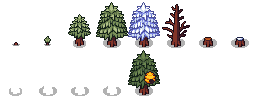
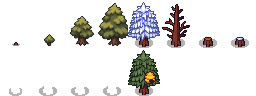
Redraw pines with Rogue Adventure foliage and bark

Changed region(s): [[0.25, 0.0312, 0.5, 0.5], [0.1562, 0.3438, 0.2188, 0.5]]

diff --git a/src/street_decoration_art.js b/src/street_decoration_art.js
@@ -1,2 +1,2 @@
 // Generated by tools/build_street_decoration_art.py; exact approved source crops.
-const STREET_DECORATION_ART = {"hanging_lantern":{"scoutId":"T1-15","source":"extra_assets/16x16/Rogue Adventure World/Rogue Adventure World [Sprites]/Tilesets/RA_Village_Animation03.png","crop":[0,0,32,32],"title":"Hanging lantern post","suggestedVariants":["hedgerow","lantern","promenade","trade"],"license":"extra_assets/16x16/Rogue Adventure World/License.txt","path":"assets/StreetDecorations/hanging_lantern.png","bounds":{"fw":32,"fh":32,"minX":5,"minY":2,"maxX":24,"maxY":30},"scale":1.57895,"ground":false},"white_flower":{"scoutId":"T3-06","source":"extra_assets/16x16/Fantasy Dreamland World/Fantasy Dreamland Reborn/Tilesets/FDR_Grasslands.png","crop":[64,16,16,16],"title":"Small white flower","suggestedVariants":["greenway","hedgerow","orchard","parkpath"],"license":"extra_assets/16x16/Fantasy Dreamland World/License.txt","path":"assets/StreetDecorations/white_flower.png","bounds":{"fw":16,"fh":16,"minX":6,"minY":6,"maxX":10,"maxY":11},"scale":2.5,"ground":false},"mossy_tree":{"scoutId":"T4-18","source":"extra_assets/16x16/Farm Game Abandoned Mines Tileset/Tilesets/FG_Extras.png","crop":[224,176,32,48],"title":"Mossy Small Tree","suggestedVariants":["hedgerow","old_growth_path","orchard"],"license":"extra_assets/16x16/Farm Game Abandoned Mines Tileset/License.txt","path":"assets/StreetDecorations/mossy_tree.png","bounds":{"fw":32,"fh":48,"minX":0,"minY":0,"maxX":32,"maxY":48},"scale":1.28125,"ground":false},"hedge_strip":{"scoutId":"T5-05","source":"extra_assets/Pixel Plains/Basic Tiles 4 (Trees & Bushes).png","crop":[272,256,64,16],"title":"Continuous hedge section","suggestedVariants":["hedgerow"],"license":"extra_assets/Pixel Plains/ReadMe.txt","path":"assets/StreetDecorations/hedge_strip.png","bounds":{"fw":64,"fh":16,"minX":0,"minY":0,"maxX":64,"maxY":16},"scale":0.75,"ground":false},"grass_clump":{"scoutId":"T1-10","source":"extra_assets/16x16/Rogue Adventure World/Rogue Adventure World [Sprites]/Tilesets/RA_Jungle.png","crop":[0,576,48,48],"title":"Rounded tall-grass clump","suggestedVariants":["grassy_lane","hedgerow","overgrown"],"license":"extra_assets/16x16/Rogue Adventure World/License.txt","path":"assets/StreetDecorations/grass_clump.png","bounds":{"fw":48,"fh":48,"minX":0,"minY":0,"maxX":48,"maxY":48},"scale":0.47917,"ground":false},"stump":{"scoutId":"T3-15","source":"extra_assets/16x16/Fantasy Dreamland World/Fantasy Dreamland Reborn/Tilesets/FDR_Halloween.png","crop":[64,128,48,32],"title":"Broad rooted stump","suggestedVariants":["old_growth_path","orchard","overgrown"],"license":"extra_assets/16x16/Fantasy Dreamland World/License.txt","path":"assets/StreetDecorations/stump.png","bounds":{"fw":48,"fh":32,"minX":8,"minY":4,"maxX":40,"maxY":29},"scale":0.84375,"ground":false},"young_fern":{"scoutId":"T4-04","source":"extra_assets/16x16/Farm Game Forest 4 Seasons Tileset/Tilesets/FG_Forest_Summer.png","crop":[160,0,16,16],"title":"Young Fern","suggestedVariants":["grassy_lane","old_growth_path","overgrown"],"license":null,"path":"assets/StreetDecorations/young_fern.png","bounds":{"fw":16,"fh":16,"minX":4,"minY":4,"maxX":13,"maxY":12},"scale":1.55556,"ground":false},"conifer_tree":{"scoutId":"T6-22","source":"extra_assets/Sunnyside_World_Assets/Elements/Plants/spr_deco_tree_02_strip4.png","crop":[0,0,28,43],"title":"Small conifer","suggestedVariants":["old_growth_path","overgrown"],"license":null,"path":"assets/StreetDecorations/conifer_tree.png","bounds":{"fw":28,"fh":43,"minX":5,"minY":5,"maxX":23,"maxY":40},"scale":1.66667,"ground":false},"mossy_rock":{"scoutId":"T5-22","source":"extra_assets/MiniWorldSprites/Nature/Rocks.png","crop":[0,16,16,16],"title":"Mossy rock","suggestedVariants":["old_growth_path","overgrown","rocky_path"],"license":null,"path":"assets/StreetDecorations/mossy_rock.png","bounds":{"fw":16,"fh":16,"minX":1,"minY":3,"maxX":15,"maxY":13},"scale":1.57143,"ground":false},"yellow_flowers":{"scoutId":"T1-02","source":"extra_assets/16x16/Rogue Adventure World/Rogue Adventure World [Sprites]/Tilesets/RA_Jungle.png","crop":[240,544,16,16],"title":"Yellow meadow flowers","suggestedVariants":["berry","berry_trail","orchard","parkpath"],"license":"extra_assets/16x16/Rogue Adventure World/License.txt","path":"assets/StreetDecorations/yellow_flowers.png","bounds":{"fw":16,"fh":16,"minX":1,"minY":1,"maxX":15,"maxY":16},"scale":1.57143,"ground":false},"muted_stones":{"scoutId":"T3-17","source":"extra_assets/16x16/Fantasy Dreamland World/Fantasy Dreamland/Tilesets/FD_Marshlands.png","crop":[256,80,32,32],"title":"Loose muted stone scatter","suggestedVariants":["barricade","pilgrim","rocky_path"],"license":"extra_assets/16x16/Fantasy Dreamland World/License.txt","path":"assets/StreetDecorations/muted_stones.png","bounds":{"fw":32,"fh":32,"minX":0,"minY":0,"maxX":32,"maxY":32},"scale":0.6875,"ground":true},"fire_pedestal":{"scoutId":"T3-11","source":"extra_assets/16x16/Fantasy Dreamland World/Fantasy Dreamland Reborn/Tilesets/FDR_Dungeon.png","crop":[256,320,16,32],"title":"Standing fire pedestal","suggestedVariants":["burned","fire_path","pilgrim"],"license":"extra_assets/16x16/Fantasy Dreamland World/License.txt","path":"assets/StreetDecorations/fire_pedestal.png","bounds":{"fw":16,"fh":32,"minX":2,"minY":3,"maxX":14,"maxY":30},"scale":2.0,"ground":false},"direction_sign":{"scoutId":"T5-17","source":"extra_assets/Medieval Fantasy Royal City/tile-B-03.png","crop":[384,144,48,48],"title":"Weathered direction sign","suggestedVariants":["pilgrim","trade","way_of_variety"],"license":null,"path":"assets/StreetDecorations/direction_sign.png","bounds":{"fw":48,"fh":48,"minX":5,"minY":1,"maxX":43,"maxY":47},"scale":0.78947,"ground":false},"wooden_lantern":{"scoutId":"T3-07","source":"extra_assets/16x16/Fantasy Dreamland World/Fantasy Dreamland Reborn/Tilesets/FDR_Caves.png","crop":[256,48,16,32],"title":"Hanging lantern on wooden post","suggestedVariants":["lantern","promenade","trade"],"license":"extra_assets/16x16/Fantasy Dreamland World/License.txt","path":"assets/StreetDecorations/wooden_lantern.png","bounds":{"fw":16,"fh":32,"minX":0,"minY":3,"maxX":16,"maxY":32},"scale":1.5,"ground":false},"street_lantern":{"scoutId":"T5-06","source":"extra_assets/Pixel Plains/Props.png","crop":[352,0,16,48],"title":"Standing street lamp","suggestedVariants":["lantern","parkpath","promenade"],"license":"extra_assets/Pixel Plains/ReadMe.txt","path":"assets/StreetDecorations/street_lantern.png","bounds":{"fw":16,"fh":48,"minX":2,"minY":3,"maxX":14,"maxY":48},"scale":1.83333,"ground":false},"tall_lantern":{"scoutId":"T5-18","source":"extra_assets/Medieval Fantasy Royal City/tile-B-03.png","crop":[432,192,48,96],"title":"Tall standing lantern","suggestedVariants":["lantern","promenade"],"license":null,"path":"assets/StreetDecorations/tall_lantern.png","bounds":{"fw":48,"fh":96,"minX":16,"minY":1,"maxX":32,"maxY":95},"scale":1.5625,"ground":false},"dead_tree":{"scoutId":"T1-18","source":"extra_assets/16x16/Wastelands Tileset 16x16 Pixelart [Rogue Adventure]/Wastelands Tilesets/RA_Wasteland.png","crop":[256,64,64,64],"title":"Dark leafless tree","suggestedVariants":["burned","haunted_forest_path","overgrown","spider_path","thorny"],"license":"extra_assets/16x16/Wastelands Tileset 16x16 Pixelart [Rogue Adventure]/License.txt","path":"assets/StreetDecorations/dead_tree.png","bounds":{"fw":64,"fh":64,"minX":8,"minY":0,"maxX":53,"maxY":62},"scale":1.15556,"ground":false},"fire_rock":{"scoutId":"T4-19","source":"extra_assets/16x16/Farming Game World/Assets/Tilesets/FG_Magma_Dungeon.png","crop":[384,208,16,16],"title":"Glowing Fire Rock","suggestedVariants":["burned","fire_path"],"license":"extra_assets/16x16/Farming Game World/License.txt","path":"assets/StreetDecorations/fire_rock.png","bounds":{"fw":16,"fh":16,"minX":0,"minY":1,"maxX":15,"maxY":16},"scale":1.46667,"ground":false},"plank_fragments":{"scoutId":"T1-13","source":"extra_assets/16x16/Village Tileset 16x16 Pixelart [Rogue Adventure]/Village Tileset/RA_Village.png","crop":[80,128,32,16],"title":"Loose plank fragments","suggestedVariants":["barricade","burned","goblin_gang","snare"],"license":"extra_assets/16x16/Village Tileset 16x16 Pixelart [Rogue Adventure]/License.txt","path":"assets/StreetDecorations/plank_fragments.png","bounds":{"fw":32,"fh":16,"minX":3,"minY":1,"maxX":31,"maxY":15},"scale":0.78571,"ground":true},"toadstool_cluster":{"scoutId":"T2-01","source":"extra_assets/16x16/Cavern Tileset 16x16 Pixelart [Rogue Adventure]/Cavern Tileset/RA_Caverns.png","crop":[112,448,16,16],"title":"Red toadstool cluster","suggestedVariants":["old_growth_path","toadstool","way_of_variety"],"license":"extra_assets/16x16/Cavern Tileset 16x16 Pixelart [Rogue Adventure]/License.txt","path":"assets/StreetDecorations/toadstool_cluster.png","bounds":{"fw":16,"fh":16,"minX":1,"minY":0,"maxX":16,"maxY":16},"scale":1.46667,"ground":false},"spotted_mushroom":{"scoutId":"T3-03","source":"extra_assets/16x16/Fantasy Dreamland World/Fantasy Dreamland Reborn/Tilesets/FDR_Enchanted_Forest.png","crop":[256,256,48,64],"title":"Large spotted mushroom","suggestedVariants":["toadstool"],"license":"extra_assets/16x16/Fantasy Dreamland World/License.txt","path":"assets/StreetDecorations/spotted_mushroom.png","bounds":{"fw":48,"fh":64,"minX":0,"minY":16,"maxX":48,"maxY":61},"scale":0.83333,"ground":false},"red_mushroom":{"scoutId":"T4-01","source":"extra_assets/16x16/Farm Game Forest 4 Seasons Tileset/Tilesets/FG_Forest_Summer.png","crop":[192,32,16,16],"title":"Red Mushroom","suggestedVariants":["poison_path","toadstool"],"license":null,"path":"assets/StreetDecorations/red_mushroom.png","bounds":{"fw":16,"fh":16,"minX":1,"minY":2,"maxX":15,"maxY":16},"scale":1.57143,"ground":false},"healing_mushrooms":{"scoutId":"T2-03","source":"extra_assets/16x16/Cavern Tileset 16x16 Pixelart [Rogue Adventure]/Cavern Tileset/RA_Caverns.png","crop":[112,480,16,16],"title":"Magenta mushroom cluster","suggestedVariants":["confusion_path","paralysis_path","toadstool"],"license":"extra_assets/16x16/Cavern Tileset 16x16 Pixelart [Rogue Adventure]/License.txt","path":"assets/StreetDecorations/healing_mushrooms.png","bounds":{"fw":16,"fh":16,"minX":1,"minY":0,"maxX":16,"maxY":16},"scale":1.46667,"ground":false},"luminous_bulbs":{"scoutId":"T1-05","source":"extra_assets/16x16/Rogue Adventure World/Rogue Adventure World [Sprites]/Tilesets/RA_Jungle.png","crop":[352,576,16,16],"title":"Pale luminous bulb cluster","suggestedVariants":["confusion_path","old_growth_path","toadstool","underdark"],"license":"extra_assets/16x16/Rogue Adventure World/License.txt","path":"assets/StreetDecorations/luminous_bulbs.png","bounds":{"fw":16,"fh":16,"minX":1,"minY":0,"maxX":16,"maxY":15},"scale":1.46667,"ground":false},"bone_fragments":{"scoutId":"T2-13","source":"extra_assets/16x16/Hell Tileset 16x16 Pixelart [Rogue Adventure]/Hell Tileset/RA_Hell.png","crop":[208,16,16,16],"title":"Bone fragments","suggestedVariants":["haunted_forest_path","snare","spider_path"],"license":"extra_assets/16x16/Hell Tileset 16x16 Pixelart [Rogue Adventure]/License.txt","path":"assets/StreetDecorations/bone_fragments.png","bounds":{"fw":16,"fh":16,"minX":2,"minY":3,"maxX":14,"maxY":13},"scale":1.83333,"ground":true},"dusty_stones":{"scoutId":"T1-20","source":"extra_assets/16x16/Wastelands Tileset 16x16 Pixelart [Rogue Adventure]/Wastelands Tilesets/RA_Wasteland.png","crop":[480,80,16,16],"title":"Dusty brown stones","suggestedVariants":["barricade","rocky_path","snare"],"license":"extra_assets/16x16/Wastelands Tileset 16x16 Pixelart [Rogue Adventure]/License.txt","path":"assets/StreetDecorations/dusty_stones.png","bounds":{"fw":16,"fh":16,"minX":0,"minY":0,"maxX":16,"maxY":16},"scale":1.375,"ground":false},"golden_bowl":{"scoutId":"T2-22","source":"extra_assets/16x16/Interior Tileset 16x16 Pixelart [Rogue Adventure]/Interior Tileset/RA_Interior.png","crop":[464,32,16,16],"title":"Golden bowl","suggestedVariants":["golden","golden_path","pilgrim"],"license":"extra_assets/16x16/Interior Tileset 16x16 Pixelart [Rogue Adventure]/License.txt","path":"assets/StreetDecorations/golden_bowl.png","bounds":{"fw":16,"fh":16,"minX":3,"minY":5,"maxX":13,"maxY":11},"scale":2.2,"ground":false},"golden_flowers":{"scoutId":"T1-03","source":"extra_assets/16x16/Rogue Adventure World/Rogue Adventure World [Sprites]/Tilesets/RA_Jungle.png","crop":[320,544,16,16],"title":"Golden flower cluster","suggestedVariants":["golden","golden_path","promenade"],"license":"extra_assets/16x16/Rogue Adventure World/License.txt","path":"assets/StreetDecorations/golden_flowers.png","bounds":{"fw":16,"fh":16,"minX":1,"minY":1,"maxX":15,"maxY":15},"scale":1.57143,"ground":false},"green_slick":{"scoutId":"T6-07","source":"extra_assets/themed-tilesets/medieval sewer/tile-B-01.png","crop":[384,672,48,48],"title":"Flat green slick","suggestedVariants":["poison_path","slime_trail"],"license":null,"path":"assets/StreetDecorations/green_slick.png","bounds":{"fw":48,"fh":48,"minX":0,"minY":0,"maxX":41,"maxY":48},"scale":0.63415,"ground":true},"dark_rubble":{"scoutId":"T5-10","source":"extra_assets/Fantasy City ver1.3/Tiles/Above.png","crop":[288,480,32,32],"title":"Dark stone rubble","suggestedVariants":["haunted_forest_path","rocky_path","spider_path"],"license":null,"path":"assets/StreetDecorations/dark_rubble.png","bounds":{"fw":32,"fh":32,"minX":2,"minY":10,"maxX":31,"maxY":31},"scale":0.75862,"ground":true},"green_orb":{"scoutId":"T3-10","source":"extra_assets/16x16/Fantasy Dreamland World/Fantasy Dreamland Reborn/Tilesets/FDR_Dungeon.png","crop":[304,288,16,32],"title":"Green orb pedestal","suggestedVariants":["confusion_path","poison_path"],"license":"extra_assets/16x16/Fantasy Dreamland World/License.txt","path":"assets/StreetDecorations/green_orb.png","bounds":{"fw":16,"fh":32,"minX":3,"minY":2,"maxX":13,"maxY":24},"scale":2.4,"ground":false},"lavender_tree":{"scoutId":"T1-25","source":"extra_assets/16x16/Rogue Adventure World/Rogue Adventure World [Sprites]/Tilesets/RA_Jungle.png","crop":[128,80,64,80],"title":"Lavender rounded tree","suggestedVariants":["confusion_path","paralysis_path"],"license":"extra_assets/16x16/Rogue Adventure World/License.txt","path":"assets/StreetDecorations/lavender_tree.png","bounds":{"fw":64,"fh":80,"minX":3,"minY":8,"maxX":57,"maxY":75},"scale":1.0,"ground":false},"dark_urn":{"scoutId":"T4-20","source":"extra_assets/16x16/Farming Game World/Assets/Tilesets/FG_Dark_Castle.png","crop":[384,256,32,32],"title":"Dark Urn","suggestedVariants":["confusion_path","haunted_forest_path","pottery"],"license":"extra_assets/16x16/Farming Game World/License.txt","path":"assets/StreetDecorations/dark_urn.png","bounds":{"fw":32,"fh":32,"minX":6,"minY":3,"maxX":26,"maxY":32},"scale":1.2,"ground":false},"pottery_stack":{"scoutId":"T4-12","source":"extra_assets/16x16/Farm Game Dungeon Cellar Tileset/Tilesets/FG_Cellar.png","crop":[352,128,32,16],"title":"Pottery Stack","suggestedVariants":["pottery","trade","way_of_variety"],"license":null,"path":"assets/StreetDecorations/pottery_stack.png","bounds":{"fw":32,"fh":16,"minX":4,"minY":0,"maxX":28,"maxY":16},"scale":1.04167,"ground":false},"paired_candles":{"scoutId":"T2-16","source":"extra_assets/16x16/Temple Tileset 16x16 Pixelart [Rogue Adventure]/Temple Tileset/RA_Temple_Objects.png","crop":[16,0,16,16],"title":"Paired tall candles","suggestedVariants":["pilgrim","lantern","golden_path"],"license":"extra_assets/16x16/Temple Tileset 16x16 Pixelart [Rogue Adventure]/License.txt","path":"assets/StreetDecorations/paired_candles.png","bounds":{"fw":16,"fh":16,"minX":1,"minY":2,"maxX":15,"maxY":11},"scale":1.57143,"ground":false},"flame_pillar":{"scoutId":"T2-18","source":"extra_assets/16x16/Ruins Tileset 16x16 Pixelart [Rogue Adventure]/Ruin Tileset/RA_Ruins_Animations.png","crop":[32,224,16,32],"title":"Standing flame pillar","suggestedVariants":["burned","fire_path","lantern","pilgrim"],"license":"extra_assets/16x16/Ruins Tileset 16x16 Pixelart [Rogue Adventure]/License.txt","path":"assets/StreetDecorations/flame_pillar.png","bounds":{"fw":16,"fh":32,"minX":2,"minY":7,"maxX":14,"maxY":30},"scale":1.83333,"ground":false},"upright_flame":{"scoutId":"T4-21","source":"extra_assets/16x16/Farming Game World/Assets/Tilesets/FG_Dark_Castle.png","crop":[240,400,16,32],"title":"Upright Flame","suggestedVariants":["burned","fire_path","lantern"],"license":"extra_assets/16x16/Farming Game World/License.txt","path":"assets/StreetDecorations/upright_flame.png","bounds":{"fw":16,"fh":32,"minX":0,"minY":8,"maxX":16,"maxY":32},"scale":1.375,"ground":false},"pottery_stack_broken":{"scoutId":"T4-14","source":"extra_assets/16x16/Farm Game Dungeon Cellar Tileset/Tilesets/FG_Cellar.png","crop":[400,128,16,16],"title":"Broken pottery stack","suggestedVariants":["pottery","trade","way_of_variety"],"license":null,"path":"assets/StreetDecorations/pottery_stack_broken.png","bounds":{"fw":16,"fh":16,"minX":3,"minY":2,"maxX":13,"maxY":14},"scale":1.4,"ground":false}};
+const STREET_DECORATION_ART = {"hanging_lantern":{"scoutId":"T1-15","source":"extra_assets/16x16/Rogue Adventure World/Rogue Adventure World [Sprites]/Tilesets/RA_Village_Animation03.png","crop":[0,0,32,32],"title":"Hanging lantern post","suggestedVariants":["hedgerow","lantern","promenade","trade"],"license":"extra_assets/16x16/Rogue Adventure World/License.txt","path":"assets/StreetDecorations/hanging_lantern.png","bounds":{"fw":32,"fh":32,"minX":5,"minY":2,"maxX":24,"maxY":30},"scale":1.57895,"ground":false},"white_flower":{"scoutId":"T3-06","source":"extra_assets/16x16/Fantasy Dreamland World/Fantasy Dreamland Reborn/Tilesets/FDR_Grasslands.png","crop":[64,16,16,16],"title":"Small white flower","suggestedVariants":["greenway","hedgerow","orchard","parkpath"],"license":"extra_assets/16x16/Fantasy Dreamland World/License.txt","path":"assets/StreetDecorations/white_flower.png","bounds":{"fw":16,"fh":16,"minX":6,"minY":6,"maxX":10,"maxY":11},"scale":2.5,"ground":false},"mossy_tree":{"scoutId":"T4-18","source":"extra_assets/16x16/Farm Game Abandoned Mines Tileset/Tilesets/FG_Extras.png","crop":[224,176,32,48],"title":"Mossy Small Tree","suggestedVariants":["hedgerow","old_growth_path","orchard"],"license":"extra_assets/16x16/Farm Game Abandoned Mines Tileset/License.txt","path":"assets/StreetDecorations/mossy_tree.png","bounds":{"fw":32,"fh":48,"minX":0,"minY":0,"maxX":32,"maxY":48},"scale":1.28125,"ground":false},"hedge_strip":{"scoutId":"T5-05","source":"extra_assets/Pixel Plains/Basic Tiles 4 (Trees & Bushes).png","crop":[272,256,64,16],"title":"Continuous hedge section","suggestedVariants":["hedgerow"],"license":"extra_assets/Pixel Plains/ReadMe.txt","path":"assets/StreetDecorations/hedge_strip.png","bounds":{"fw":64,"fh":16,"minX":0,"minY":0,"maxX":64,"maxY":16},"scale":0.75,"ground":false},"grass_clump":{"scoutId":"T1-10","source":"extra_assets/16x16/Rogue Adventure World/Rogue Adventure World [Sprites]/Tilesets/RA_Jungle.png","crop":[0,576,48,48],"title":"Rounded tall-grass clump","suggestedVariants":["grassy_lane","hedgerow","overgrown"],"license":"extra_assets/16x16/Rogue Adventure World/License.txt","path":"assets/StreetDecorations/grass_clump.png","bounds":{"fw":48,"fh":48,"minX":0,"minY":0,"maxX":48,"maxY":48},"scale":0.47917,"ground":false},"stump":{"scoutId":"T3-15","source":"extra_assets/16x16/Fantasy Dreamland World/Fantasy Dreamland Reborn/Tilesets/FDR_Halloween.png","crop":[64,128,48,32],"title":"Broad rooted stump","suggestedVariants":["old_growth_path","orchard","overgrown"],"license":"extra_assets/16x16/Fantasy Dreamland World/License.txt","path":"assets/StreetDecorations/stump.png","bounds":{"fw":48,"fh":32,"minX":8,"minY":4,"maxX":40,"maxY":29},"scale":0.84375,"ground":false},"young_fern":{"scoutId":"T4-04","source":"extra_assets/16x16/Farm Game Forest 4 Seasons Tileset/Tilesets/FG_Forest_Summer.png","crop":[160,0,16,16],"title":"Young Fern","suggestedVariants":["grassy_lane","old_growth_path","overgrown"],"license":null,"path":"assets/StreetDecorations/young_fern.png","bounds":{"fw":16,"fh":16,"minX":4,"minY":4,"maxX":13,"maxY":12},"scale":1.55556,"ground":false},"conifer_tree":{"scoutId":"T6-22","source":"assets/Objects/Approved/conifer_tree.png","crop":[0,0,28,43],"title":"Rogue-style redrawn pine","suggestedVariants":["old_growth_path","overgrown"],"license":null,"provenance":"Generated with built-in imagegen from the original conifer and installed Rogue Adventure tree references; native sprite export.","path":"assets/StreetDecorations/conifer_tree.png","bounds":{"fw":28,"fh":43,"minX":4,"minY":4,"maxX":26,"maxY":37},"scale":1.36364,"ground":false},"mossy_rock":{"scoutId":"T5-22","source":"extra_assets/MiniWorldSprites/Nature/Rocks.png","crop":[0,16,16,16],"title":"Mossy rock","suggestedVariants":["old_growth_path","overgrown","rocky_path"],"license":null,"path":"assets/StreetDecorations/mossy_rock.png","bounds":{"fw":16,"fh":16,"minX":1,"minY":3,"maxX":15,"maxY":13},"scale":1.57143,"ground":false},"yellow_flowers":{"scoutId":"T1-02","source":"extra_assets/16x16/Rogue Adventure World/Rogue Adventure World [Sprites]/Tilesets/RA_Jungle.png","crop":[240,544,16,16],"title":"Yellow meadow flowers","suggestedVariants":["berry","berry_trail","orchard","parkpath"],"license":"extra_assets/16x16/Rogue Adventure World/License.txt","path":"assets/StreetDecorations/yellow_flowers.png","bounds":{"fw":16,"fh":16,"minX":1,"minY":1,"maxX":15,"maxY":16},"scale":1.57143,"ground":false},"muted_stones":{"scoutId":"T3-17","source":"extra_assets/16x16/Fantasy Dreamland World/Fantasy Dreamland/Tilesets/FD_Marshlands.png","crop":[256,80,32,32],"title":"Loose muted stone scatter","suggestedVariants":["barricade","pilgrim","rocky_path"],"license":"extra_assets/16x16/Fantasy Dreamland World/License.txt","path":"assets/StreetDecorations/muted_stones.png","bounds":{"fw":32,"fh":32,"minX":0,"minY":0,"maxX":32,"maxY":32},"scale":0.6875,"ground":true},"fire_pedestal":{"scoutId":"T3-11","source":"extra_assets/16x16/Fantasy Dreamland World/Fantasy Dreamland Reborn/Tilesets/FDR_Dungeon.png","crop":[256,320,16,32],"title":"Standing fire pedestal","suggestedVariants":["burned","fire_path","pilgrim"],"license":"extra_assets/16x16/Fantasy Dreamland World/License.txt","path":"assets/StreetDecorations/fire_pedestal.png","bounds":{"fw":16,"fh":32,"minX":2,"minY":3,"maxX":14,"maxY":30},"scale":2.0,"ground":false},"direction_sign":{"scoutId":"T5-17","source":"extra_assets/Medieval Fantasy Royal City/tile-B-03.png","crop":[384,144,48,48],"title":"Weathered direction sign","suggestedVariants":["pilgrim","trade","way_of_variety"],"license":null,"path":"assets/StreetDecorations/direction_sign.png","bounds":{"fw":48,"fh":48,"minX":5,"minY":1,"maxX":43,"maxY":47},"scale":0.78947,"ground":false},"wooden_lantern":{"scoutId":"T3-07","source":"extra_assets/16x16/Fantasy Dreamland World/Fantasy Dreamland Reborn/Tilesets/FDR_Caves.png","crop":[256,48,16,32],"title":"Hanging lantern on wooden post","suggestedVariants":["lantern","promenade","trade"],"license":"extra_assets/16x16/Fantasy Dreamland World/License.txt","path":"assets/StreetDecorations/wooden_lantern.png","bounds":{"fw":16,"fh":32,"minX":0,"minY":3,"maxX":16,"maxY":32},"scale":1.5,"ground":false},"street_lantern":{"scoutId":"T5-06","source":"extra_assets/Pixel Plains/Props.png","crop":[352,0,16,48],"title":"Standing street lamp","suggestedVariants":["lantern","parkpath","promenade"],"license":"extra_assets/Pixel Plains/ReadMe.txt","path":"assets/StreetDecorations/street_lantern.png","bounds":{"fw":16,"fh":48,"minX":2,"minY":3,"maxX":14,"maxY":48},"scale":1.83333,"ground":false},"tall_lantern":{"scoutId":"T5-18","source":"extra_assets/Medieval Fantasy Royal City/tile-B-03.png","crop":[432,192,48,96],"title":"Tall standing lantern","suggestedVariants":["lantern","promenade"],"license":null,"path":"assets/StreetDecorations/tall_lantern.png","bounds":{"fw":48,"fh":96,"minX":16,"minY":1,"maxX":32,"maxY":95},"scale":1.5625,"ground":false},"dead_tree":{"scoutId":"T1-18","source":"extra_assets/16x16/Wastelands Tileset 16x16 Pixelart [Rogue Adventure]/Wastelands Tilesets/RA_Wasteland.png","crop":[256,64,64,64],"title":"Dark leafless tree","suggestedVariants":["burned","haunted_forest_path","overgrown","spider_path","thorny"],"license":"extra_assets/16x16/Wastelands Tileset 16x16 Pixelart [Rogue Adventure]/License.txt","path":"assets/StreetDecorations/dead_tree.png","bounds":{"fw":64,"fh":64,"minX":8,"minY":0,"maxX":53,"maxY":62},"scale":1.15556,"ground":false},"fire_rock":{"scoutId":"T4-19","source":"extra_assets/16x16/Farming Game World/Assets/Tilesets/FG_Magma_Dungeon.png","crop":[384,208,16,16],"title":"Glowing Fire Rock","suggestedVariants":["burned","fire_path"],"license":"extra_assets/16x16/Farming Game World/License.txt","path":"assets/StreetDecorations/fire_rock.png","bounds":{"fw":16,"fh":16,"minX":0,"minY":1,"maxX":15,"maxY":16},"scale":1.46667,"ground":false},"plank_fragments":{"scoutId":"T1-13","source":"extra_assets/16x16/Village Tileset 16x16 Pixelart [Rogue Adventure]/Village Tileset/RA_Village.png","crop":[80,128,32,16],"title":"Loose plank fragments","suggestedVariants":["barricade","burned","goblin_gang","snare"],"license":"extra_assets/16x16/Village Tileset 16x16 Pixelart [Rogue Adventure]/License.txt","path":"assets/StreetDecorations/plank_fragments.png","bounds":{"fw":32,"fh":16,"minX":3,"minY":1,"maxX":31,"maxY":15},"scale":0.78571,"ground":true},"toadstool_cluster":{"scoutId":"T2-01","source":"extra_assets/16x16/Cavern Tileset 16x16 Pixelart [Rogue Adventure]/Cavern Tileset/RA_Caverns.png","crop":[112,448,16,16],"title":"Red toadstool cluster","suggestedVariants":["old_growth_path","toadstool","way_of_variety"],"license":"extra_assets/16x16/Cavern Tileset 16x16 Pixelart [Rogue Adventure]/License.txt","path":"assets/StreetDecorations/toadstool_cluster.png","bounds":{"fw":16,"fh":16,"minX":1,"minY":0,"maxX":16,"maxY":16},"scale":1.46667,"ground":false},"spotted_mushroom":{"scoutId":"T3-03","source":"extra_assets/16x16/Fantasy Dreamland World/Fantasy Dreamland Reborn/Tilesets/FDR_Enchanted_Forest.png","crop":[256,256,48,64],"title":"Large spotted mushroom","suggestedVariants":["toadstool"],"license":"extra_assets/16x16/Fantasy Dreamland World/License.txt","path":"assets/StreetDecorations/spotted_mushroom.png","bounds":{"fw":48,"fh":64,"minX":0,"minY":16,"maxX":48,"maxY":61},"scale":0.83333,"ground":false},"red_mushroom":{"scoutId":"T4-01","source":"extra_assets/16x16/Farm Game Forest 4 Seasons Tileset/Tilesets/FG_Forest_Summer.png","crop":[192,32,16,16],"title":"Red Mushroom","suggestedVariants":["poison_path","toadstool"],"license":null,"path":"assets/StreetDecorations/red_mushroom.png","bounds":{"fw":16,"fh":16,"minX":1,"minY":2,"maxX":15,"maxY":16},"scale":1.57143,"ground":false},"healing_mushrooms":{"scoutId":"T2-03","source":"extra_assets/16x16/Cavern Tileset 16x16 Pixelart [Rogue Adventure]/Cavern Tileset/RA_Caverns.png","crop":[112,480,16,16],"title":"Magenta mushroom cluster","suggestedVariants":["confusion_path","paralysis_path","toadstool"],"license":"extra_assets/16x16/Cavern Tileset 16x16 Pixelart [Rogue Adventure]/License.txt","path":"assets/StreetDecorations/healing_mushrooms.png","bounds":{"fw":16,"fh":16,"minX":1,"minY":0,"maxX":16,"maxY":16},"scale":1.46667,"ground":false},"luminous_bulbs":{"scoutId":"T1-05","source":"extra_assets/16x16/Rogue Adventure World/Rogue Adventure World [Sprites]/Tilesets/RA_Jungle.png","crop":[352,576,16,16],"title":"Pale luminous bulb cluster","suggestedVariants":["confusion_path","old_growth_path","toadstool","underdark"],"license":"extra_assets/16x16/Rogue Adventure World/License.txt","path":"assets/StreetDecorations/luminous_bulbs.png","bounds":{"fw":16,"fh":16,"minX":1,"minY":0,"maxX":16,"maxY":15},"scale":1.46667,"ground":false},"bone_fragments":{"scoutId":"T2-13","source":"extra_assets/16x16/Hell Tileset 16x16 Pixelart [Rogue Adventure]/Hell Tileset/RA_Hell.png","crop":[208,16,16,16],"title":"Bone fragments","suggestedVariants":["haunted_forest_path","snare","spider_path"],"license":"extra_assets/16x16/Hell Tileset 16x16 Pixelart [Rogue Adventure]/License.txt","path":"assets/StreetDecorations/bone_fragments.png","bounds":{"fw":16,"fh":16,"minX":2,"minY":3,"maxX":14,"maxY":13},"scale":1.83333,"ground":true},"dusty_stones":{"scoutId":"T1-20","source":"extra_assets/16x16/Wastelands Tileset 16x16 Pixelart [Rogue Adventure]/Wastelands Tilesets/RA_Wasteland.png","crop":[480,80,16,16],"title":"Dusty brown stones","suggestedVariants":["barricade","rocky_path","snare"],"license":"extra_assets/16x16/Wastelands Tileset 16x16 Pixelart [Rogue Adventure]/License.txt","path":"assets/StreetDecorations/dusty_stones.png","bounds":{"fw":16,"fh":16,"minX":0,"minY":0,"maxX":16,"maxY":16},"scale":1.375,"ground":false},"golden_bowl":{"scoutId":"T2-22","source":"extra_assets/16x16/Interior Tileset 16x16 Pixelart [Rogue Adventure]/Interior Tileset/RA_Interior.png","crop":[464,32,16,16],"title":"Golden bowl","suggestedVariants":["golden","golden_path","pilgrim"],"license":"extra_assets/16x16/Interior Tileset 16x16 Pixelart [Rogue Adventure]/License.txt","path":"assets/StreetDecorations/golden_bowl.png","bounds":{"fw":16,"fh":16,"minX":3,"minY":5,"maxX":13,"maxY":11},"scale":2.2,"ground":false},"golden_flowers":{"scoutId":"T1-03","source":"extra_assets/16x16/Rogue Adventure World/Rogue Adventure World [Sprites]/Tilesets/RA_Jungle.png","crop":[320,544,16,16],"title":"Golden flower cluster","suggestedVariants":["golden","golden_path","promenade"],"license":"extra_assets/16x16/Rogue Adventure World/License.txt","path":"assets/StreetDecorations/golden_flowers.png","bounds":{"fw":16,"fh":16,"minX":1,"minY":1,"maxX":15,"maxY":15},"scale":1.57143,"ground":false},"green_slick":{"scoutId":"T6-07","source":"extra_assets/themed-tilesets/medieval sewer/tile-B-01.png","crop":[384,672,48,48],"title":"Flat green slick","suggestedVariants":["poison_path","slime_trail"],"license":null,"path":"assets/StreetDecorations/green_slick.png","bounds":{"fw":48,"fh":48,"minX":0,"minY":0,"maxX":41,"maxY":48},"scale":0.63415,"ground":true},"dark_rubble":{"scoutId":"T5-10","source":"extra_assets/Fantasy City ver1.3/Tiles/Above.png","crop":[288,480,32,32],"title":"Dark stone rubble","suggestedVariants":["haunted_forest_path","rocky_path","spider_path"],"license":null,"path":"assets/StreetDecorations/dark_rubble.png","bounds":{"fw":32,"fh":32,"minX":2,"minY":10,"maxX":31,"maxY":31},"scale":0.75862,"ground":true},"green_orb":{"scoutId":"T3-10","source":"extra_assets/16x16/Fantasy Dreamland World/Fantasy Dreamland Reborn/Tilesets/FDR_Dungeon.png","crop":[304,288,16,32],"title":"Green orb pedestal","suggestedVariants":["confusion_path","poison_path"],"license":"extra_assets/16x16/Fantasy Dreamland World/License.txt","path":"assets/StreetDecorations/green_orb.png","bounds":{"fw":16,"fh":32,"minX":3,"minY":2,"maxX":13,"maxY":24},"scale":2.4,"ground":false},"lavender_tree":{"scoutId":"T1-25","source":"extra_assets/16x16/Rogue Adventure World/Rogue Adventure World [Sprites]/Tilesets/RA_Jungle.png","crop":[128,80,64,80],"title":"Lavender rounded tree","suggestedVariants":["confusion_path","paralysis_path"],"license":"extra_assets/16x16/Rogue Adventure World/License.txt","path":"assets/StreetDecorations/lavender_tree.png","bounds":{"fw":64,"fh":80,"minX":3,"minY":8,"maxX":57,"maxY":75},"scale":1.0,"ground":false},"dark_urn":{"scoutId":"T4-20","source":"extra_assets/16x16/Farming Game World/Assets/Tilesets/FG_Dark_Castle.png","crop":[384,256,32,32],"title":"Dark Urn","suggestedVariants":["confusion_path","haunted_forest_path","pottery"],"license":"extra_assets/16x16/Farming Game World/License.txt","path":"assets/StreetDecorations/dark_urn.png","bounds":{"fw":32,"fh":32,"minX":6,"minY":3,"maxX":26,"maxY":32},"scale":1.2,"ground":false},"pottery_stack":{"scoutId":"T4-12","source":"extra_assets/16x16/Farm Game Dungeon Cellar Tileset/Tilesets/FG_Cellar.png","crop":[352,128,32,16],"title":"Pottery Stack","suggestedVariants":["pottery","trade","way_of_variety"],"license":null,"path":"assets/StreetDecorations/pottery_stack.png","bounds":{"fw":32,"fh":16,"minX":4,"minY":0,"maxX":28,"maxY":16},"scale":1.04167,"ground":false},"paired_candles":{"scoutId":"T2-16","source":"extra_assets/16x16/Temple Tileset 16x16 Pixelart [Rogue Adventure]/Temple Tileset/RA_Temple_Objects.png","crop":[16,0,16,16],"title":"Paired tall candles","suggestedVariants":["pilgrim","lantern","golden_path"],"license":"extra_assets/16x16/Temple Tileset 16x16 Pixelart [Rogue Adventure]/License.txt","path":"assets/StreetDecorations/paired_candles.png","bounds":{"fw":16,"fh":16,"minX":1,"minY":2,"maxX":15,"maxY":11},"scale":1.57143,"ground":false},"flame_pillar":{"scoutId":"T2-18","source":"extra_assets/16x16/Ruins Tileset 16x16 Pixelart [Rogue Adventure]/Ruin Tileset/RA_Ruins_Animations.png","crop":[32,224,16,32],"title":"Standing flame pillar","suggestedVariants":["burned","fire_path","lantern","pilgrim"],"license":"extra_assets/16x16/Ruins Tileset 16x16 Pixelart [Rogue Adventure]/License.txt","path":"assets/StreetDecorations/flame_pillar.png","bounds":{"fw":16,"fh":32,"minX":2,"minY":7,"maxX":14,"maxY":30},"scale":1.83333,"ground":false},"upright_flame":{"scoutId":"T4-21","source":"extra_assets/16x16/Farming Game World/Assets/Tilesets/FG_Dark_Castle.png","crop":[240,400,16,32],"title":"Upright Flame","suggestedVariants":["burned","fire_path","lantern"],"license":"extra_assets/16x16/Farming Game World/License.txt","path":"assets/StreetDecorations/upright_flame.png","bounds":{"fw":16,"fh":32,"minX":0,"minY":8,"maxX":16,"maxY":32},"scale":1.375,"ground":false},"pottery_stack_broken":{"scoutId":"T4-14","source":"extra_assets/16x16/Farm Game Dungeon Cellar Tileset/Tilesets/FG_Cellar.png","crop":[400,128,16,16],"title":"Broken pottery stack","suggestedVariants":["pottery","trade","way_of_variety"],"license":null,"path":"assets/StreetDecorations/pottery_stack_broken.png","bounds":{"fw":16,"fh":16,"minX":3,"minY":2,"maxX":13,"maxY":14},"scale":1.4,"ground":false}};

diff --git a/sw.js b/sw.js
@@ -1,7 +1,7 @@
 // Content-addressed resources survive deployments. HTML stays network-first;
 // tiles retain their independent offline cache. Keep two shell generations so
 // old tabs can still request their exact script URLs after a worker update.
-const SHELL_VERSION = 'shell-fd8ae870';
+const SHELL_VERSION = 'shell-7ab7534d';
 
 const RESOURCE_CACHE = 'terracart-resources-v1';
 const RESOURCE_MANIFEST = './__terracart_resource_manifest__';
@@ -358,6 +358,7 @@ const ASSET_HASHES = {
   "assets/Objects/Approved/coin_pile_51.png": "5fcc7904",
   "assets/Objects/Approved/coin_pile_6_10.png": "8c9883da",
   "assets/Objects/Approved/coin_single_ground.png": "191424c1",
+  "assets/Objects/Approved/conifer_tree.png": "dee7154c",
   "assets/Objects/Approved/crops.png": "00d16bdc",
   "assets/Objects/Approved/driftwood.png": "e0999ae0",
   "assets/Objects/Approved/gas-mushroom-large.png": "d85b5a66",
@@ -371,7 +372,7 @@ const ASSET_HASHES = {
   "assets/Objects/Approved/mineralrock.png": "f2aeac90",
   "assets/Objects/Approved/peach_tree.png": "a3e2afea",
   "assets/Objects/Approved/pier.png": "e6dd0763",
-  "assets/Objects/Approved/pine_tree.png": "f88156f7",
+  "assets/Objects/Approved/pine_tree.png": "6bc0423f",
   "assets/Objects/Approved/props.png": "7157df1d",
   "assets/Objects/Approved/scarecrow.png": "952c9882",
   "assets/Objects/Approved/shrine.png": "eccf0591",
@@ -488,7 +489,7 @@ const ASSET_HASHES = {
   "assets/Objects/ZoneVariants/approved-24.png": "679c3d66",
   "assets/Objects/ZoneVariants/tall_pillar.png": "19238fcb",
   "assets/StreetDecorations/bone_fragments.png": "073bb18d",
-  "assets/StreetDecorations/conifer_tree.png": "f802886b",
+  "assets/StreetDecorations/conifer_tree.png": "f5e91a06",
   "assets/StreetDecorations/dark_rubble.png": "42d8a060",
   "assets/StreetDecorations/dark_urn.png": "aa7aabe3",
   "assets/StreetDecorations/dead_tree.png": "785521a4",

diff --git a/index.html b/index.html
@@ -10,7 +10,7 @@
   <meta name="theme-color" content="#111" />
   <script>
     // Derived with sw.js SHELL_VERSION by tools/cachebust.js.
-    window.__shellVersion = 'shell-fd8ae870';
+    window.__shellVersion = 'shell-7ab7534d';
     // Sandbox local reset must run before any saved setting or slot is read.
     (function () {
       const params = new URLSearchParams(location.search);
@@ -3260,7 +3260,7 @@
   <script src="src/quarry_layout.js?v=bbbcbd3e"></script>
   <script src="src/zone_dressing.js?v=67c64262"></script>
   <script src="src/reef_layout.js?v=384032ac"></script>
-  <script src="src/sprite_layout.js?v=5f44f7b1"></script>
+  <script src="src/sprite_layout.js?v=1df8cbb0"></script>
   <script src="src/placed_floor.js?v=1230ad57"></script>
   <script src="src/campfires.js?v=de1dbe54"></script>
   <script src="src/home.js?v=b09d80f3"></script>
@@ -3399,7 +3399,7 @@
   <script src="src/mountain_edges.js?v=d945f4c2"></script>
   <script src="src/rogue_object_bounds.js?v=01efcee0"></script>
   <script src="src/rogue_prop_profile.js?v=db5c63e0"></script>
-  <script src="src/street_decoration_art.js?v=f182d83f"></script>
+  <script src="src/street_decoration_art.js?v=7375796d"></script>
   <script src="src/rogue_objects.js?v=123afdfb"></script>
   <script src="src/sandbox_destinations.js?v=49311083"></script>
   <script src="src/sandbox.js?v=e74e9726"></script>

diff --git a/src/sprite_layout.js b/src/sprite_layout.js
@@ -307,9 +307,9 @@
     'trees:2': { fw: 32, fh: 48, minX: 7, minY: 16, maxX: 25, maxY: 48 },
     'selected_dead_tree:0': { fw: 64, fh: 64, minX: 6, minY: 10, maxX: 58, maxY: 58 },
     'trees:3': { fw: 32, fh: 48, minX: 0, minY: 6, maxX: 32, maxY: 48 },
-    'pine_tree:1': { fw: 32, fh: 48, minX: 12, minY: 36, maxX: 19, maxY: 46 },
-    'pine_tree:2': { fw: 32, fh: 48, minX: 4, minY: 14, maxX: 27, maxY: 48 },
-    'pine_tree:3': { fw: 32, fh: 48, minX: 0, minY: 2, maxX: 32, maxY: 48 },
+    'pine_tree:1': { fw: 32, fh: 48, minX: 12, minY: 34, maxX: 23, maxY: 46 },
+    'pine_tree:2': { fw: 32, fh: 48, minX: 6, minY: 16, maxX: 30, maxY: 46 },
+    'pine_tree:3': { fw: 32, fh: 48, minX: 2, minY: 3, maxX: 32, maxY: 46 },
     'bushes:0': { fw: 24, fh: 24, minX: 1, minY: 3, maxX: 23, maxY: 23 },
     'apple_tree:0': { fw: 32, fh: 48, minX: 12, minY: 43, maxX: 20, maxY: 46 },
     'apple_tree:2': { fw: 32, fh: 48, minX: 5, minY: 14, maxX: 29, maxY: 48 },

diff --git a/docs/design/rendering.md b/docs/design/rendering.md
@@ -1872,7 +1872,11 @@ atlas and retained geometry.
 ### Approved roadside art
 
 `assets/StreetDecorations/sources.json` records reviewed tileset crops and every
-suggested route. `tools/build_street_decoration_art.py` exports exact pixels and
+suggested route. The conifer uses a custom Rogue-style redraw from
+`assets/Objects/Approved/conifer_tree.png`, with clustered olive foliage and
+warm exposed roots; its source is the native export rather than the former
+Sunnyside crop. The standard pine sheet shares that foliage treatment across
+its seedling, young and mature frames. `tools/build_street_decoration_art.py` exports exact pixels and
 `STREET_DECORATION_ART` bounds. `_streetArt` changes presentation without changing
 pickup, container, mining or hazard behavior. Ground slicks, loose planks and
 fragments remain ground decals. Pottery stacks use the shared terracotta ground
